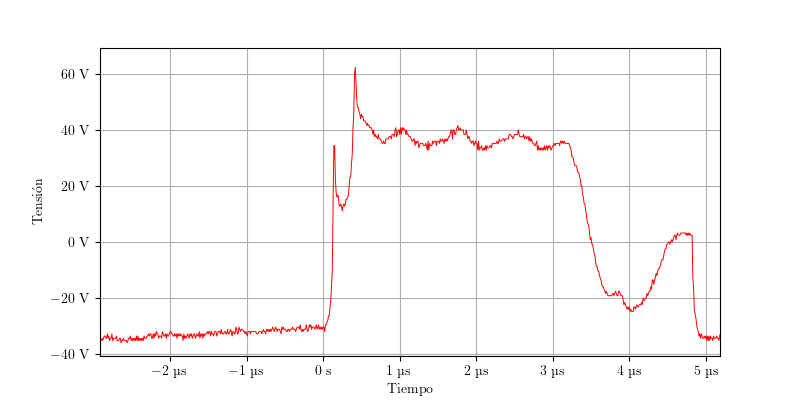
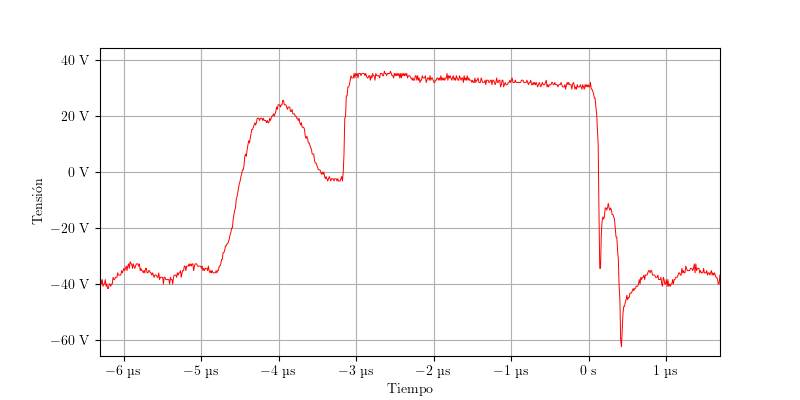
Ver descripción del commit
-Terminar de comparar imagenes en el tex de simulaciones prototipo
-Agregar teoria del selector de modo

diff --git a/sections/simulaciones_prototipo.tex b/sections/simulaciones_prototipo.tex
@@ -230,9 +230,10 @@ A continuación se presentan formas de ondas variadas del driver, comparandolas 
 
         % Forma de onda: diente de sierra invertida y espejada con tiempo muerto 
 
-\subsection{Convertidor Forward Doble Switch}
+\subsection{Convertidor}
 
 % Agregar intro
+\subsubsection{MOSFETs}
 
 % 1) Vgs de ambos MOSFETs %Ya se midió en otros lados
 
@@ -271,155 +272,110 @@ Para comparar, se muestra en las figuras \ref{fig:vds_simulation_high} y \ref{fi
 
 % 3) Idrain de ambos MOSFETs
 
+En las figuras \ref{fig:osc:20} y \ref{fig:osc:22} puede verse la corriente por el terminal \textit{drain} de los MOSFETs del convertidor. Las figuras \ref{fig:sim:10} y \ref{fig:sim:11} muestran sus simulaciones, respectivamente.
+
 \begin{figure}[H]
     \centering
     \includegraphics[width=0.8\textwidth]{images/capturas-osciloscopio/17-11-2022/20.png}
-    \caption{}
+    \caption{Corriente que circula por el \textit{drain} del MOSFET de lado alto}
     \label{fig:osc:20}
 \end{figure}
 
 \begin{figure}[H]
     \centering
     \includegraphics[width=\textwidth]{images/sim/10.pdf}
-    \caption{Corriente que circula por el drain del MOSFET 1 (high side)}
+    \caption{Simulación de la corriente que circula por el \textit{drain} del MOSFET de lado alto}
     \label{fig:sim:10}
 \end{figure}
 
 \begin{figure}[H]
     \centering
     \includegraphics[width=0.8\textwidth]{images/capturas-osciloscopio/17-11-2022/22.png}
-    \caption{}
+    \caption{Corriente que circula por el \textit{drain} del MOSFET de lado bajo}
     \label{fig:osc:22}
 \end{figure}
 
 \begin{figure}[H]
     \centering
     \includegraphics[width=\textwidth]{images/sim/11.pdf}
-    \caption{Corriente que circula por el drain del MOSFET 2 (low side)}
+    \caption{Simulación de la corriente que circula por el \textit{drain} del MOSFET de lado bajo}
     \label{fig:sim:11}
 \end{figure}
 
+\subsubsection{Transformador de potencia}
 % 4) Tensiones en el E70
+
+Las figuras \ref{fig:osc:38} y \ref{fig:osc:40} muestran las tensiones en el primario y el secundario del transformador de potencia, respectivamente. Puede observarse comparando con sus simulaciones (Figuras \ref{fig:sim:19} y \ref{fig:sim:20}) que las oscilaciones son mucho mayores en el secundario del transformador.
 
 \begin{figure}[H]
     \centering
     \includegraphics[width=0.8\textwidth]{images/capturas-osciloscopio/17-11-2022/38.png}
-    \caption{}
+    \caption{Tensión en el primario del transformador de potencia}
     \label{fig:osc:38}
 \end{figure}
 
 \begin{figure}[H]
     \centering
     \includegraphics[width=\textwidth]{images/sim/19.pdf}
-    \caption{Tensión en el primario del transformador de potencia}
+    \caption{Simulación de la tensión en el primario del transformador de potencia}
     \label{fig:sim:19}
 \end{figure}
 
 \begin{figure}[H]
     \centering
     \includegraphics[width=0.8\textwidth]{images/capturas-osciloscopio/17-11-2022/40.png}
-    \caption{}
+    \caption{Tensión en el secundario del transformador de potencia}
     \label{fig:osc:40}
 \end{figure}
 
 \begin{figure}[H]
     \centering
     \includegraphics[width=\textwidth]{images/sim/20.pdf}
-    \caption{Tensión en el secundario del transformador de potencia}
+    \caption{Simulación de la tensión en el secundario del transformador de potencia}
     \label{fig:sim:20}
 \end{figure}
 
 % 5) Corriente en el primario %Del e70?
 
     % Medir la componente continua. IMPOSSIBLE
+Las figuras \ref{fig:osc:24} muestra la corriente que circula por el primario del transformador de potencia. La figura \ref{fig:sim:12} muestra la simulación de la misma.
+
 \begin{figure}[H]
     \centering
     \includegraphics[width=0.8\textwidth]{images/capturas-osciloscopio/17-11-2022/24.png}
-    \caption{}
+    \caption{Corriente en el primario del transformador de potencia}
     \label{fig:osc:24}
 \end{figure}
 
 \begin{figure}[H]
     \centering
     \includegraphics[width=\textwidth]{images/sim/12.pdf}
-    \caption{Corriente en el primario del transformador de potencia}
+    \caption{Simulación de la corriente en el primario del transformador de potencia}
     \label{fig:sim:12}
 \end{figure}
 
-% 6) Caída de tensión en los diodos
-
-\begin{figure}[H]
-    \centering
-    \includegraphics[width=0.8\textwidth]{images/capturas-osciloscopio/17-11-2022/60.png}
-    \caption{}
-    \label{fig:osc:60}
-\end{figure}
-
-\begin{figure}[H]
-    \centering
-    \includegraphics[width=\textwidth]{images/sim/26.pdf}
-    \caption{Tensión cátodo ánodo en el diodo D1}
-    \label{fig:sim:26}
-\end{figure}
-
-\begin{figure}[H]
-    \centering
-    \includegraphics[width=0.8\textwidth]{images/capturas-osciloscopio/17-11-2022/61.png}
-    \caption{}
-    \label{fig:osc:61}
-\end{figure}
-
-\begin{figure}[H]
-    \centering
-    \includegraphics[width=\textwidth]{images/sim/27.pdf}
-    \caption{Tensión cátodo ánodo en el diodo D2}
-    \label{fig:sim:27}
-\end{figure}
-
-\begin{figure}[H]
-    \centering
-    \includegraphics[width=0.8\textwidth]{images/capturas-osciloscopio/17-11-2022/62.png}
-    \caption{}
-    \label{fig:osc:62}
-\end{figure}
-
-\begin{figure}[H]
-    \centering
-    \includegraphics[width=\textwidth]{images/sim/25.pdf}
-    \caption{Tensión cátodo ánodo en el diodo D3}
-    \label{fig:sim:25}
-\end{figure}
-
-\begin{figure}[H]
-    \centering
-    \includegraphics[width=0.8\textwidth]{images/capturas-osciloscopio/17-11-2022/63.png}
-    \caption{}
-    \label{fig:osc:63}
-\end{figure}
-
-\begin{figure}[H]
-    \centering
-    \includegraphics[width=\textwidth]{images/sim/24.pdf}
-    \caption{Tensión cátodo ánodo en el diodo D4}
-    \label{fig:sim:24}
-\end{figure}
-
+\subsubsection{Circuito de salida}
 % 7) Corriente en el inductor junto con su ripple
+
+La corriente por el inductor de salida se muestra en la figura \ref{fig:osc:66}. La figura \ref{fig:sim:13} muestra su simulación.
 
 \begin{figure}[H]
     \centering
     \includegraphics[width=0.8\textwidth]{images/capturas-osciloscopio/17-11-2022/66.png}
-    \caption{}
+    \caption{Corriente en el inductor del filtro de salida}
     \label{fig:osc:66}
 \end{figure}
 
 \begin{figure}[H]
     \centering
     \includegraphics[width=\textwidth]{images/sim/13.pdf}
-    \caption{Corriente en el inductor del filtro de salida}
+    \caption{Simulación de la corriente en el inductor del filtro de salida}
     \label{fig:sim:13}
 \end{figure}
 
+En las figuras \ref{fig:osc:67} y \ref{fig:sim:14ripple} se muestra la corriente por la resistencia de carga y su simulación, respectivamente. Se puede observar que el ripple obtenido es mayor al simulado.
+
+La figura \ref{fig:sim:14} muestra la simulación de la corriente de salida durante el encendido.
 % 8) Corriente de salida junto con su ripple 
 
     % Idealmente medir 1A-1.6A del modo elegido. 
@@ -445,6 +401,7 @@ Para comparar, se muestra en las figuras \ref{fig:vds_simulation_high} y \ref{fi
     \label{fig:sim:14}
 \end{figure}
 
+Analogamente, en las figuras \ref{fig:osc:58} y \ref{fig:sim:21ripple} se muestra el ripple de tensión en la salida salida y su simulación. En la figura \ref{fig:sim:21} se muestra la simulación de la tensión de salida durante el encendido.<
 % 9) Tensión de salida junto con su ripple 
 
 \begin{figure}[H]

diff --git a/scripts/csv_to_image.py b/scripts/csv_to_image.py
@@ -30,9 +30,9 @@ plt.rc('text', usetex=True)
 plt.rc('font', family='serif')
 fig,ax = plt.subplots(nrows=1, ncols=1, figsize=(8, 4))
 ax.xaxis.set_major_formatter(EngFormatter(unit='s'))
-ax.yaxis.set_major_formatter(EngFormatter(unit='A'))
+ax.yaxis.set_major_formatter(EngFormatter(unit='V'))
 ax.set_xlabel('Tiempo')
-ax.set_ylabel('Corriente')
+ax.set_ylabel('Tensión')
 #enable grid
 ax.grid(True)
 #ax.set_title(sys.argv[3])
@@ -40,9 +40,9 @@ ax.grid(True)
 if len(sys.argv) == 4:
     ax.set_xlim(float(sys.argv[2])-260e-9, float(sys.argv[3])-260e-9)
 # Divide y values by 10.8
-y = [i * 0.2 for i in y]
+#y = [i * 0.2 for i in y]
 # Inverti y values
-#y = [-i for i in y]
+y = [-i for i in y]
 ax.plot(x,y,color='red', linewidth=0.7)
 plt.show()
 #plt.savefig(sys.argv[2])
